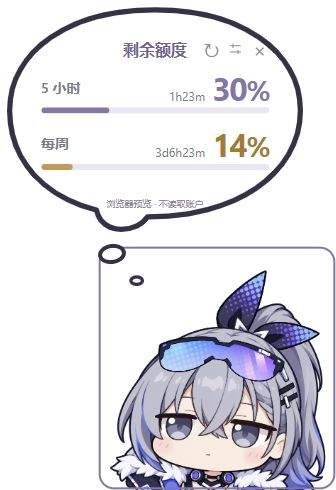
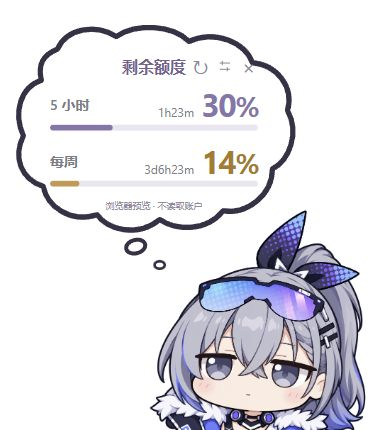
feat(ui): redraw thought cloud and move it closer to character

diff --git a/apps/desktop/src/components/DesktopWidget.vue b/apps/desktop/src/components/DesktopWidget.vue
@@ -142,8 +142,8 @@ onUnmounted(() => {
 <template>
   <main class="stage" :style="transform" @contextmenu.prevent>
     <div v-show="expanded" ref="bubble" class="thought">
-      <svg class="thought-outline" viewBox="0 0 320 244" preserveAspectRatio="none" aria-hidden="true">
-        <path d="M314 110C314 48 250 6 160 6S6 48 6 110c0 53 38 90 92 103 2 12 13 20 26 20 12 0 23-5 28-13 91 1 162-43 162-110Z" />
+      <svg class="thought-outline" viewBox="0 0 300 230" preserveAspectRatio="none" aria-hidden="true">
+        <path d="M48 32C58 10 89 6 110 19 132 5 169 7 187 24 215 12 246 25 254 46 280 48 298 71 291 95 304 118 293 146 275 155 275 182 248 202 223 198 205 220 173 218 156 207 132 226 100 217 90 202 61 211 37 193 33 173 9 165 1 143 12 121 1 97 9 71 31 64 27 47 33 38 48 32Z" />
       </svg>
       <div class="thought-content">
         <header class="thought-header">
@@ -195,11 +195,11 @@ onUnmounted(() => {
 </template>
 
 <style scoped>
-.stage { position: absolute; right: 0; bottom: 0; width: 336px; height: 490px; transform-origin: bottom right; }
-.thought { position: absolute; left: 4px; bottom: 204px; width: 302px; height: 282px; z-index: 1; }
-.thought-outline { position: absolute; width: 302px; height: 236px; inset: 0 auto auto 0; overflow: visible; pointer-events: none; }
+.stage { position: absolute; right: 0; bottom: 0; width: 376px; height: 430px; transform-origin: bottom right; }
+.thought { position: absolute; left: 12px; top: 18px; width: 284px; height: 254px; z-index: 1; }
+.thought-outline { position: absolute; width: 284px; height: 224px; inset: 0 auto auto 0; overflow: visible; pointer-events: none; }
 .thought-outline path { fill: white; stroke: #383047; stroke-width: 5.5; stroke-linejoin: round; }
-.thought-content { position: absolute; top: 31px; right: 35px; bottom: 65px; left: 35px; display: flex; flex-direction: column; }
+.thought-content { position: absolute; top: 34px; right: 36px; bottom: 49px; left: 36px; display: flex; flex-direction: column; }
 .thought-header { position: relative; display: flex; align-items: center; flex-shrink: 0; gap: 3px; height: 28px; margin-bottom: 8px; }
 .thought-header h1 { position: absolute; left: 0; right: 0; margin: 0; color: #75618f; font-size: 16px; font-weight: 700; white-space: nowrap; text-align: center; pointer-events: none; }
 .actions { display: flex; align-items: center; margin-left: auto; gap: 1px; }
@@ -208,10 +208,10 @@ onUnmounted(() => {
 .icon-button svg { width: 15px; height: 15px; fill: none; stroke: currentColor; stroke-width: 1.6; stroke-linecap: round; }
 .back { width: 17px; font-size: 25px; }
 .thought-scroll { min-height: 0; flex: 1; overflow-y: auto; scrollbar-width: thin; scrollbar-color: #ccc2db transparent; margin-bottom: 24px; padding: 0 2px; }
-.caption { position: absolute; bottom: 12px; left: 30px; right: 30px; margin: 0; color: #948a9d; font-size: 9px; line-height: 12px; text-align: center; pointer-events: none; }
+.caption { position: absolute; bottom: 12px; left: 20px; right: 20px; margin: 0; color: #948a9d; font-size: 9px; line-height: 12px; text-align: center; pointer-events: none; }
 .thought-dot { position: absolute; display: block; border: 4px solid #383047; border-radius: 50%; background: white; pointer-events: none; }
-.thought-dot.large { left: 94px; top: 240px; width: 28px; height: 20px; transform: rotate(-8deg); }
-.thought-dot.small { left: 125px; top: 271px; width: 15px; height: 11px; border-width: 3.5px; }
+.thought-dot.large { left: 112px; top: 220px; width: 23px; height: 17px; transform: rotate(-15deg); }
+.thought-dot.small { left: 141px; top: 242px; width: 13px; height: 10px; border-width: 3px; }
 .character-position { position: absolute; right: 0; bottom: 0; }
 .ui-error { color: #a36c28; font-size: 10px; line-height: 1.5; }
 </style>

diff --git a/apps/desktop/src-tauri/src/main.rs b/apps/desktop/src-tauri/src/main.rs
@@ -19,8 +19,8 @@ use tauri::{
     Emitter, Manager, State, WebviewWindow,
 };
 
-const WIDTH: f64 = 336.0;
-const HEIGHT: f64 = 490.0;
+const WIDTH: f64 = 376.0;
+const HEIGHT: f64 = 430.0;
 
 #[derive(Default, Clone, Copy, Serialize)]
 pub struct HostStatus {
